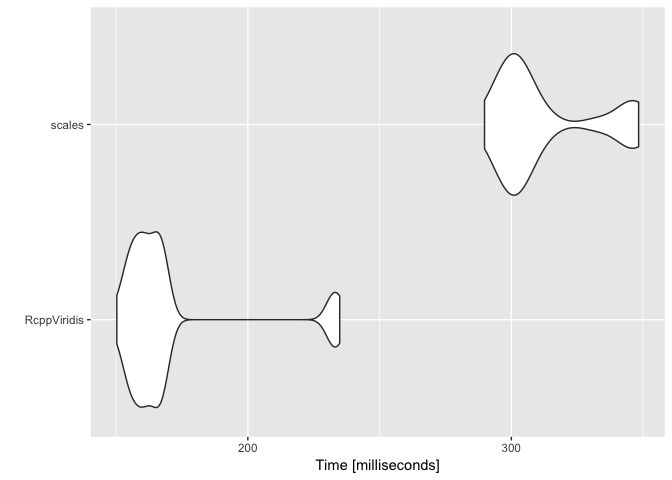
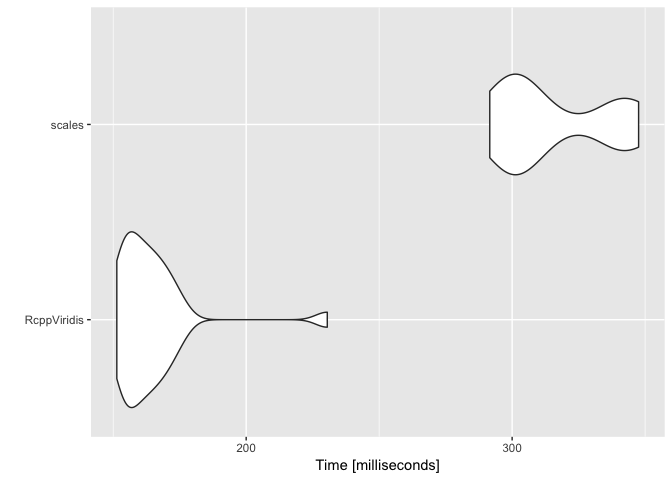
readme

diff --git a/src/Palettes.cpp b/src/Palettes.cpp
@@ -1,0 +1,69 @@
+// #include <Rcpp.h>
+// #include "RcppViridis.hpp"
+// #include "RcppViridis_Base.hpp"
+// #include "RcppViridisMagma.hpp"
+// #include "RcppViridisInferno.hpp"
+// #include "RcppViridisPlasma.hpp"
+// #include "RcppViridisViridis.hpp"
+// #include "RcppViridisCividis.hpp"
+//
+// // [[Rcpp::depends(BH)]]
+// #include <boost/math/interpolators/cubic_b_spline.hpp>
+//
+// using namespace Rcpp;
+//
+// void palette_vectors( Rcpp::NumericVector& red, Rcpp::NumericVector& green,
+//                      Rcpp::NumericVector& blue, int n, std::string palette ) {
+//
+//   if( palette == "viridis" ) {
+//     red = viridis::viridis_red;
+//     green = viridis::viridis_green;
+//     blue = viridis::viridis_blue;
+//   } else if ( palette == "inferno" ) {
+//     red = inferno::inferno_red;
+//     green = inferno::inferno_green;
+//     blue = inferno::inferno_blue;
+//   } else if ( palette == "plasma" ) {
+//     red = plasma::plasma_red;
+//     green = plasma::plasma_green;
+//     blue = plasma::plasma_blue;
+//   } else if ( palette == "magma" ) {
+//     red = magma::magma_red;
+//     green = magma::magma_green;
+//     blue = magma::magma_blue;
+//   } else if ( palette == "cividis" ) {
+//     red = cividis::cividis_red;
+//     green = cividis::cividis_green;
+//     blue = cividis::cividis_blue;
+//   } else {
+//     Rcpp::stop("unknown palette");
+//   }
+// }
+//
+//
+// // [[Rcpp::export]]
+// Rcpp::StringVector hex_palette( std::string palette ) {
+//
+//   Rcpp::NumericVector red(256);
+//   Rcpp::NumericVector green(256);
+//   Rcpp::NumericVector blue(256);
+//
+//   palette_vectors(red, green, blue, 256, palette);
+//   Rcpp::StringVector hex_strings(256);
+//
+//   boost::math::cubic_b_spline< double > spline_red( red.begin(), red.end(), 0, 1 );
+//   boost::math::cubic_b_spline< double > spline_green( green.begin(), green.end(), 0, 1 );
+//   boost::math::cubic_b_spline< double > spline_blue( blue.begin(), blue.end(), 0, 1 );
+//
+//   int i = 0;
+//   int r, g, b;
+//   for (i = 0; i < 256; i++) {
+//     r = round( spline_red( i ) * 255 ) ;
+//     g = round( spline_green( i ) * 255 );
+//     b = round( spline_blue( i ) * 255 );
+//     hex_strings[i] = ConvertRGBtoHex(r, g, b);
+//   }
+//
+//   return hex_strings;
+//
+// }

diff --git a/src/ColourValues.cpp b/src/ColourValues.cpp
@@ -7,12 +7,11 @@
 #include "RcppViridisViridis.hpp"
 #include "RcppViridisCividis.hpp"
 
+//[[Rcpp::depends(BH)]]
+#include <boost/math/interpolators/cubic_b_spline.hpp>
+
 using namespace Rcpp;
 using namespace viridis;
-
-//[[Rcpp::depends(BH)]]
-
-#include <boost/math/interpolators/cubic_b_spline.hpp>
 
 
 void replace_nas( Rcpp::IntegerVector& out, int na_value ) {
@@ -50,11 +49,6 @@ Rcpp::StringVector colour_value_hex( Rcpp::NumericVector x, std::string palette,
   //Rcpp::NumericVector vals = m_unique(x);
   Rcpp::NumericVector scaledVals = m_rescale(x);
   Rcpp::StringVector hex_strings(n);
-
-  /*
-  double max_x = max( na_omit( x ) ) ;
-  double scale_x = 255 / max_x;
-  */
 
   int i = 0;
 
@@ -128,12 +122,6 @@ Rcpp::StringVector rcpp_colour_num_value_hex( Rcpp::NumericVector x, std::string
 // [[Rcpp::export]]
 Rcpp::StringVector rcpp_colour_str_value_hex( Rcpp::StringVector x, std::string palette, std::string na_colour) {
   return colour_value_hex( x, palette, na_colour );
-}
-
-// [[Rcpp::export]]
-Rcpp::StringVector rcpp_colour_dte_value_hex( Rcpp::DateVector x, std::string palette, std::string na_colour) {
-  Rcpp::NumericVector y = as< Rcpp::NumericVector>(x);
-  return colour_value_hex( y, palette, na_colour );
 }
 
 

diff --git a/src/RcppExports.cpp b/src/RcppExports.cpp
@@ -31,24 +31,10 @@ BEGIN_RCPP
     return rcpp_result_gen;
 END_RCPP
 }
-// rcpp_colour_dte_value_hex
-Rcpp::StringVector rcpp_colour_dte_value_hex(Rcpp::DateVector x, std::string palette, std::string na_colour);
-RcppExport SEXP _RcppViridis_rcpp_colour_dte_value_hex(SEXP xSEXP, SEXP paletteSEXP, SEXP na_colourSEXP) {
-BEGIN_RCPP
-    Rcpp::RObject rcpp_result_gen;
-    Rcpp::RNGScope rcpp_rngScope_gen;
-    Rcpp::traits::input_parameter< Rcpp::DateVector >::type x(xSEXP);
-    Rcpp::traits::input_parameter< std::string >::type palette(paletteSEXP);
-    Rcpp::traits::input_parameter< std::string >::type na_colour(na_colourSEXP);
-    rcpp_result_gen = Rcpp::wrap(rcpp_colour_dte_value_hex(x, palette, na_colour));
-    return rcpp_result_gen;
-END_RCPP
-}
 
 static const R_CallMethodDef CallEntries[] = {
     {"_RcppViridis_rcpp_colour_num_value_hex", (DL_FUNC) &_RcppViridis_rcpp_colour_num_value_hex, 3},
     {"_RcppViridis_rcpp_colour_str_value_hex", (DL_FUNC) &_RcppViridis_rcpp_colour_str_value_hex, 3},
-    {"_RcppViridis_rcpp_colour_dte_value_hex", (DL_FUNC) &_RcppViridis_rcpp_colour_dte_value_hex, 3},
     {NULL, NULL, 0}
 };
 

diff --git a/README.md b/README.md
@@ -57,17 +57,15 @@ devtools::install_github("SymbolixAU/RcppViridis")
 
 -----
 
-### How can I make use of it in my package?
+<!-- ### How can I make use of it in my package? -->
 
-**Rcpp**
+<!-- **Rcpp** -->
 
-All functions are written in `Rcpp`. I have exposed some of them in
-header files so you can `LinkTo` them in your package.
+<!-- All functions are written in `Rcpp`. I have exposed some of them in header files so you can `LinkTo` them in your package. -->
 
-**R**
+<!-- **R** -->
 
-If you’re not using `Rcpp`, just `Import` this package like you would
-any other.
+<!-- If you're not using `Rcpp`, just `Import` this package like you would any other.  -->
 
 ## Do you have any examples?
 
@@ -137,8 +135,8 @@ m <- microbenchmark(
 m
 # Unit: milliseconds
 #         expr      min       lq     mean   median       uq      max neval
-#  RcppViridis 167.6878 168.6166 176.0962 171.5215 178.3409 212.3532    25
-#       scales 289.2994 295.2781 313.3689 304.9227 330.6642 354.8313    25
+#  RcppViridis 160.5173 161.4925 171.0076 163.6721 167.7869 208.9288    25
+#       scales 277.7687 294.1758 309.9100 299.5600 328.8986 339.2970    25
 
 autoplot(m)
 # Coordinate system already present. Adding new coordinate system, which will replace the existing one.
@@ -166,8 +164,8 @@ m <- microbenchmark(
 m
 # Unit: milliseconds
 #         expr      min       lq     mean   median       uq      max neval
-#  RcppViridis 163.4859 169.0722 177.8160 171.1871 174.7467 230.3614    25
-#       scales 287.8648 298.0923 315.2418 304.1720 317.8362 364.8851    25
+#  RcppViridis 164.2044 166.9651 173.2650 170.5938 175.3815 226.3252    25
+#       scales 289.9452 300.6418 319.4861 303.9463 352.7916 363.7996    25
 
 autoplot(m)
 # Coordinate system already present. Adding new coordinate system, which will replace the existing one.
